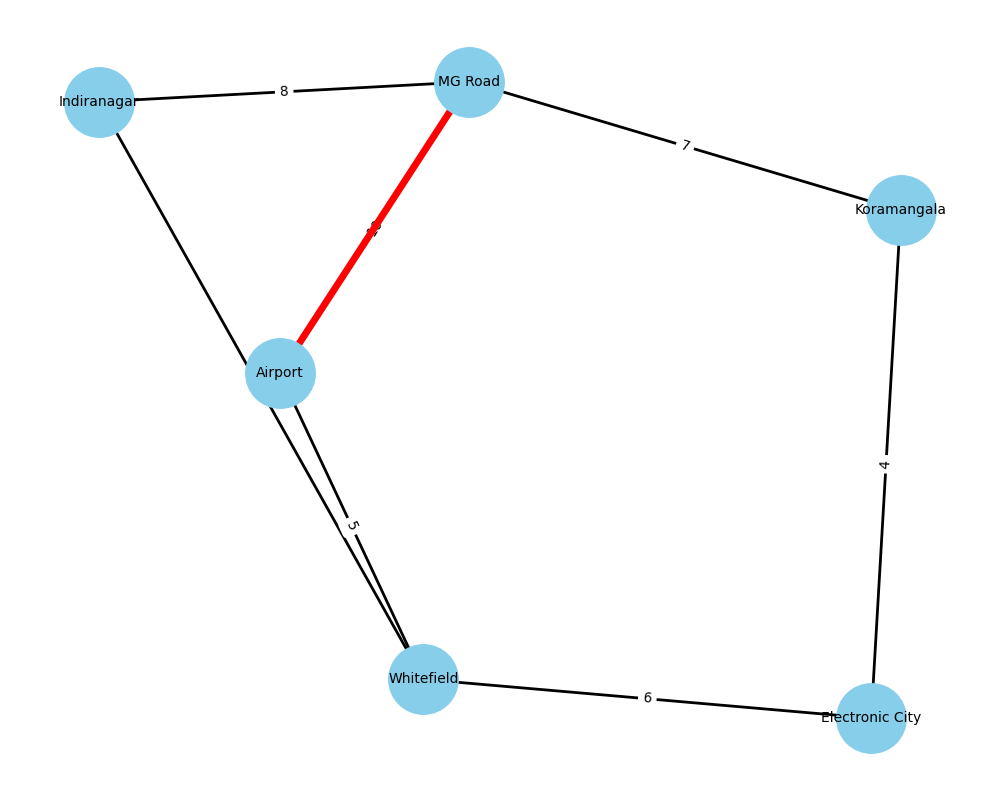
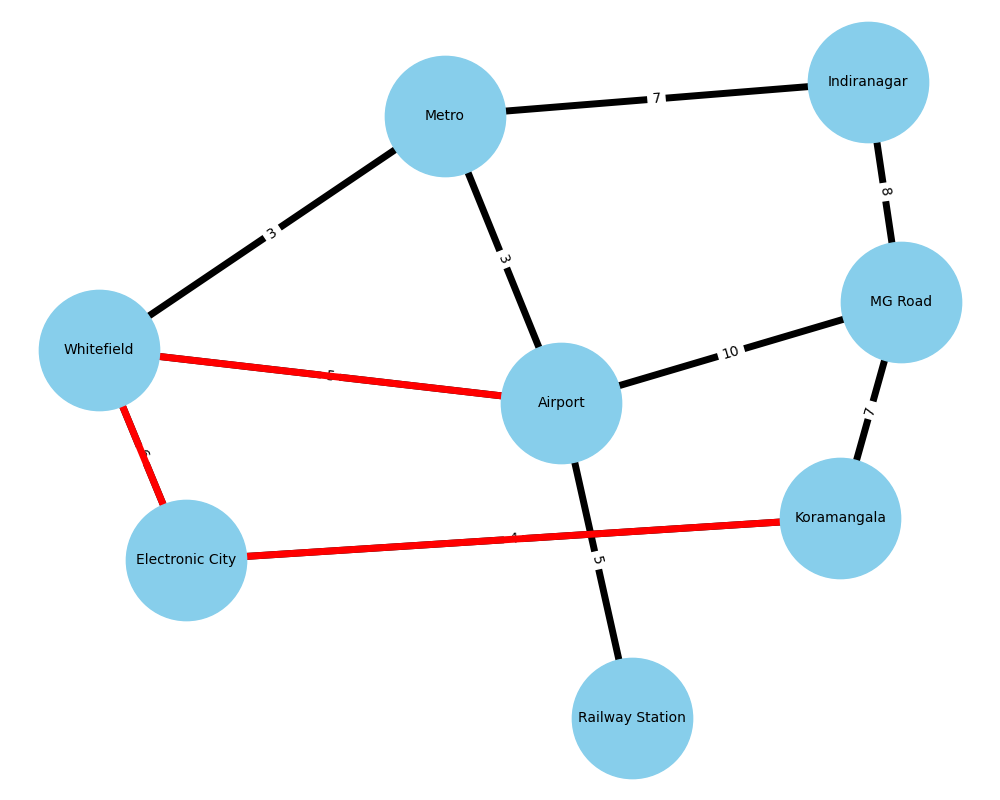
two nodes added

diff --git a/graph_data.py b/graph_data.py
@@ -5,9 +5,13 @@ G = nx.Graph()
 G.add_weighted_edges_from([
     ("Airport", "MG Road", 10),
     ("Airport", "Whitefield", 5),
-    ("Whitefield", "Indiranagar", 3),
+    ("Whitefield", "Metro", 3),
     ("MG Road", "Indiranagar", 8),
+    ("Indiranagar","Metro",7),
     ("Whitefield", "Electronic City", 6),
     ("Electronic City", "Koramangala", 4),
-    ("Koramangala", "MG Road", 7)
+    ("Koramangala", "MG Road", 7),
+    ("Airport","Metro",3),
+    ("Railway Station","Airport",5)
+
 ])

diff --git a/graph_visualizer.py b/graph_visualizer.py
@@ -13,14 +13,14 @@ def draw_graph(G, shortest_path=None):
         G,
         pos,
         node_color="skyblue",
-        node_size=2500
+        node_size=7500
     )
 
     # Draw edges
     nx.draw_networkx_edges(
         G,
         pos,
-        width=2
+        width=5
     )
 
     # Draw labels